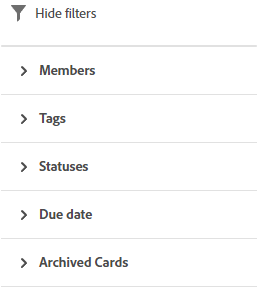
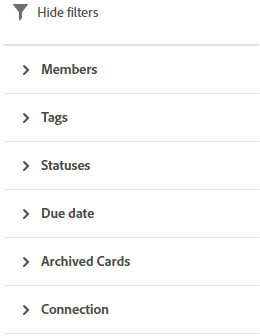
Added filter by connection

diff --git a/help/quicksilver/agile/get-started-with-boards/filter-search-in-board.md b/help/quicksilver/agile/get-started-with-boards/filter-search-in-board.md
@@ -18,6 +18,7 @@ You can filter a board to display:
 * Cards with a specific status
 * Cards due in a certain time frame
 * Archived cards
+* <span class="preview">Cards connected to a specific project</span>
 
 Searching also helps you locate a specific card on the board.
 
@@ -39,7 +40,7 @@ Click the filter icon ![Filter](assets/filter-icon-spectrum-25x25.png) to open t
 
 >[!NOTE]
 >
->The updated filters are available only via the early feature opt-in. For details, see [Early feature opt-in for Adobe Workfront Boards](/help/quicksilver/agile/get-started-with-boards/boards-early-feature-opt-in.md).
+>The updated filter panel is available only via the early feature opt-in. For details, see [Early feature opt-in for Adobe Workfront Boards](/help/quicksilver/agile/get-started-with-boards/boards-early-feature-opt-in.md).
 
 ## Access requirements
 
@@ -148,10 +149,23 @@ By default, only active cards are displayed on a board. You can filter the board
 
 1. Select **Archived cards** again to clear the option and display only active cards.
 
+<div class="preview">
+
+## Filter a board by connection
+
+1. Access the board.
+1. Click the filter icon ![Filter](assets/filter-icon-spectrum-25x25.png), expand the Connection section, and select the Workfront projects for the connected cards you want to see.
+
+   You can also display cards that are not connected to a project.
+
+   ![Filter connected cards](assets/boards-filter-by-connection.png)
+
+</div>
+
 ## Search in a board
 
 1. Access the board.
-1. Click the search icon ![](assets/search-icon.png) and type a search term. Then, press Enter.
+1. Click the search icon ![Search](assets/search-icon.png) and type a search term. Then, press Enter.
 
    All cards that contain the search term are displayed.
 

diff --git a/help/quicksilver/agile/get-started-with-boards/boards-early-feature-opt-in.md b/help/quicksilver/agile/get-started-with-boards/boards-early-feature-opt-in.md
@@ -80,7 +80,7 @@ The following table outlines major features of boards along with their current r
   </tr>
   <tr>
    <td>Filter by project</td>
-   <td>Planned</td>
+   <td>Partially released</td>
   </tr>
   <tr>
    <td>Create a column connected to Workfront</td>
